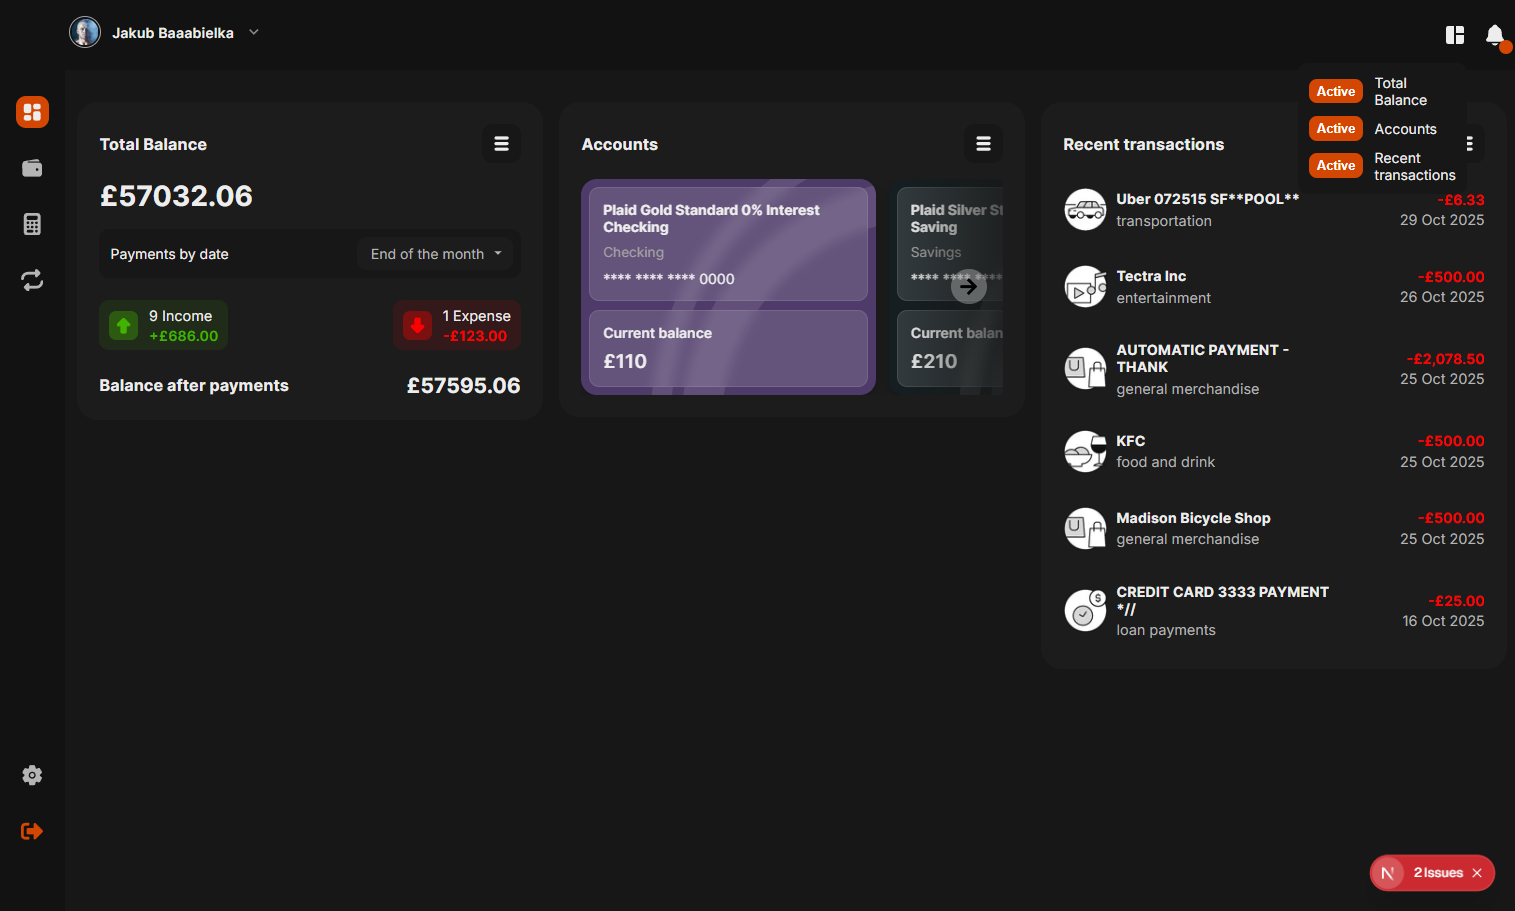
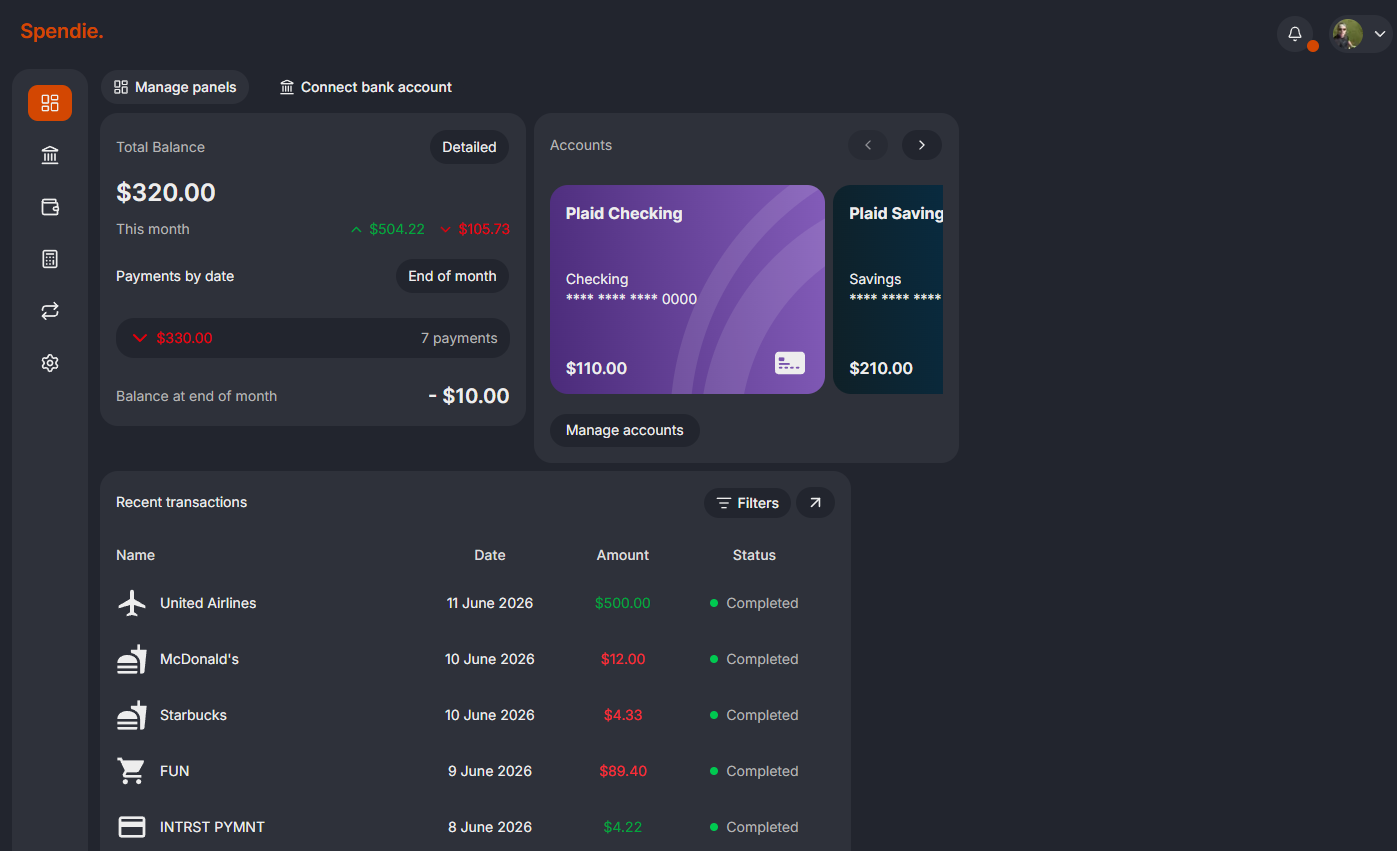
Made HeroSection images more responsive + add mobile version image

diff --git a/features/landing-page/components/HeroSection.tsx b/features/landing-page/components/HeroSection.tsx
@@ -1,11 +1,17 @@
+"use client";
+
 import React from "react";
 import Image from "next/image";
 //Images
-import dashboard from "@/public/images/dashboard2.png";
+import dashboard from "@/public/images/dashboard1.png";
+import mobileDashboard from "@/public/images/dashboard-mobile.png";
 //Components
 import Button from "@/shared/components/ui/Button";
+import { useWindowWidth } from "../hooks/useWindowWidth";
 
 const HeroSection = () => {
+  const windowWidth = useWindowWidth();
+
   return (
     <section className="mt-37.5 flex flex-col items-center gap-8">
       <div className="flex flex-col items-center text-center gap-4 max-w-225">
@@ -19,11 +25,31 @@ const HeroSection = () => {
           <Button variant="default">Try demo</Button>
         </div>
       </div>
-      <Image
-        src={dashboard}
-        alt="Hero Image"
-        className="relative max-w-262.5 aspect-3/2 rounded-2xl"
-      />
+      {windowWidth && windowWidth < 768 ? (
+        <div className="relative w-full h-200 ">
+          <Image
+            src={mobileDashboard}
+            alt="Hero Image"
+            className="relative rounded-2xl object-contain"
+            fill
+            loading="eager"
+            quality={90}
+            sizes="(max-width: 1200px) 100vh, 1440px"
+          />
+        </div>
+      ) : (
+        <div className="relative aspect-video w-full max-w-262.5 rounded-2xl shadow-default">
+          <Image
+            src={dashboard}
+            alt="Hero Image"
+            className="relative rounded-2xl object-cover"
+            fill
+            loading="eager"
+            quality={90}
+            sizes="(max-width: 1200px) 100vw, 1440px"
+          />
+        </div>
+      )}
     </section>
   );
 };

diff --git a/features/landing-page/hooks/useWindowWidth.ts b/features/landing-page/hooks/useWindowWidth.ts
@@ -1,0 +1,20 @@
+"use client";
+
+import { useEffect, useState } from "react";
+
+export function useWindowWidth() {
+  const [windowWidth, setWindowWidth] = useState<number | undefined>(undefined);
+
+  useEffect(() => {
+    function handleResize() {
+      setWindowWidth(window.innerWidth);
+    }
+
+    window.addEventListener("resize", handleResize);
+    handleResize(); // Set initial width
+
+    return () => window.removeEventListener("resize", handleResize);
+  }, []);
+
+  return windowWidth;
+}

diff --git a/next.config.ts b/next.config.ts
@@ -2,6 +2,7 @@ import type { NextConfig } from "next";
 
 const nextConfig: NextConfig = {
   images: {
+    qualities: [50, 75, 90],
     remotePatterns: [
       {
         protocol: "https",